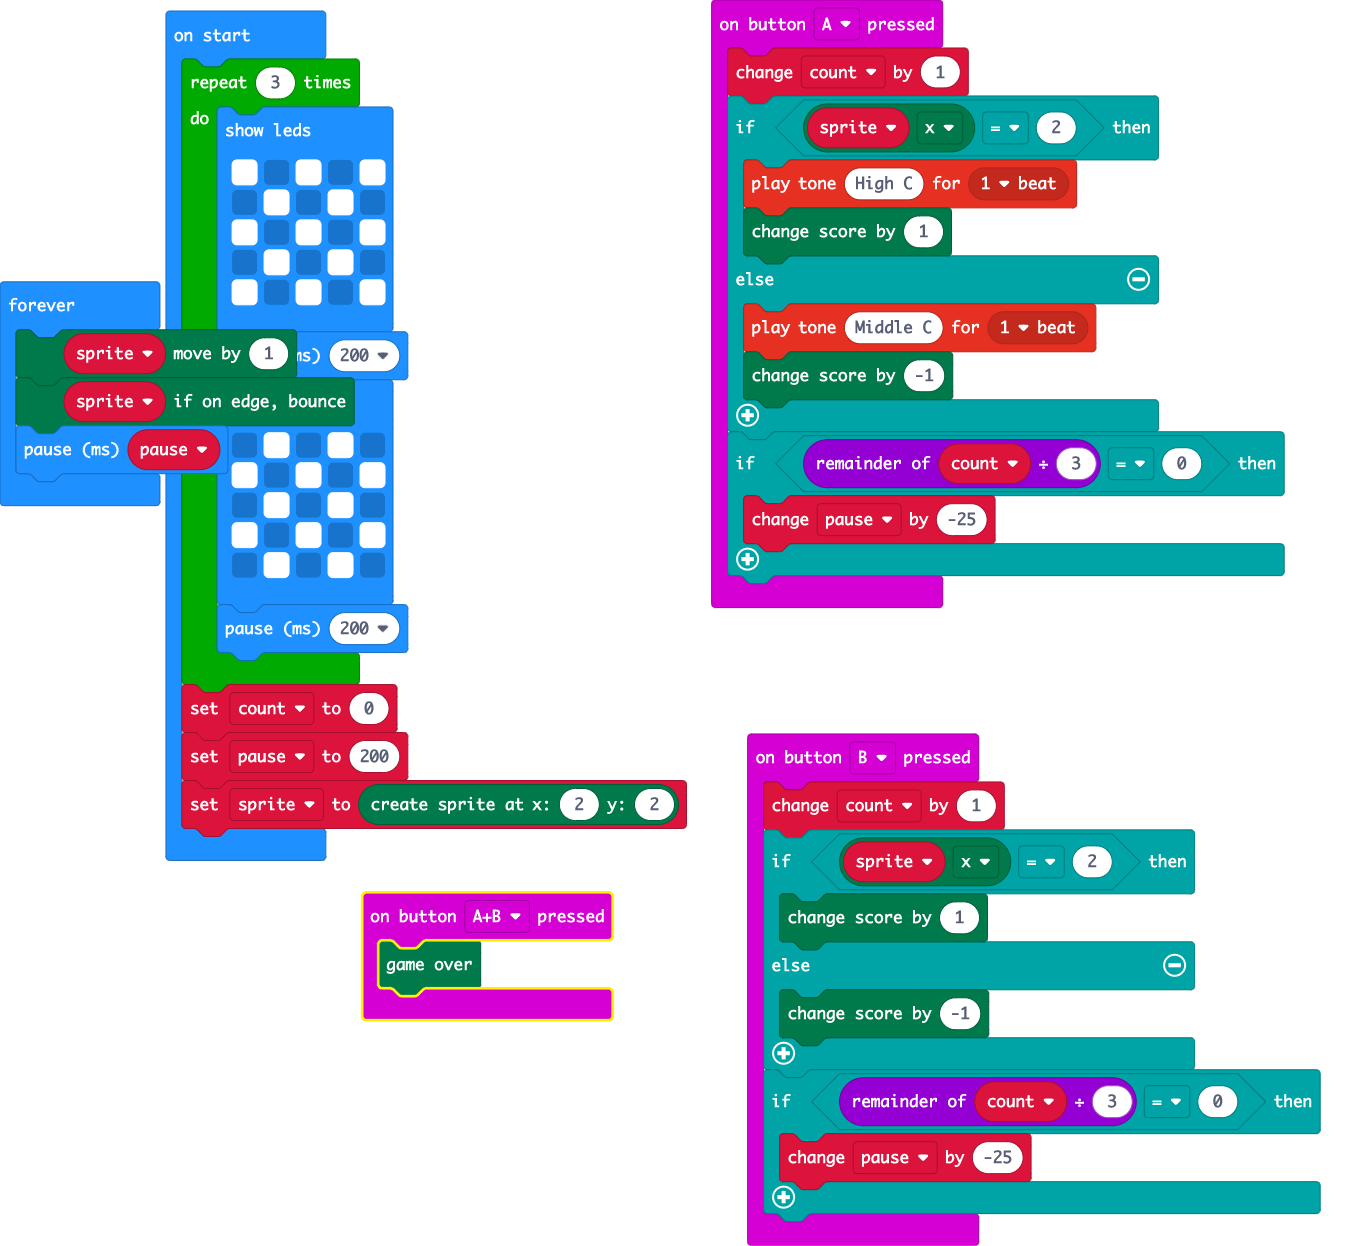
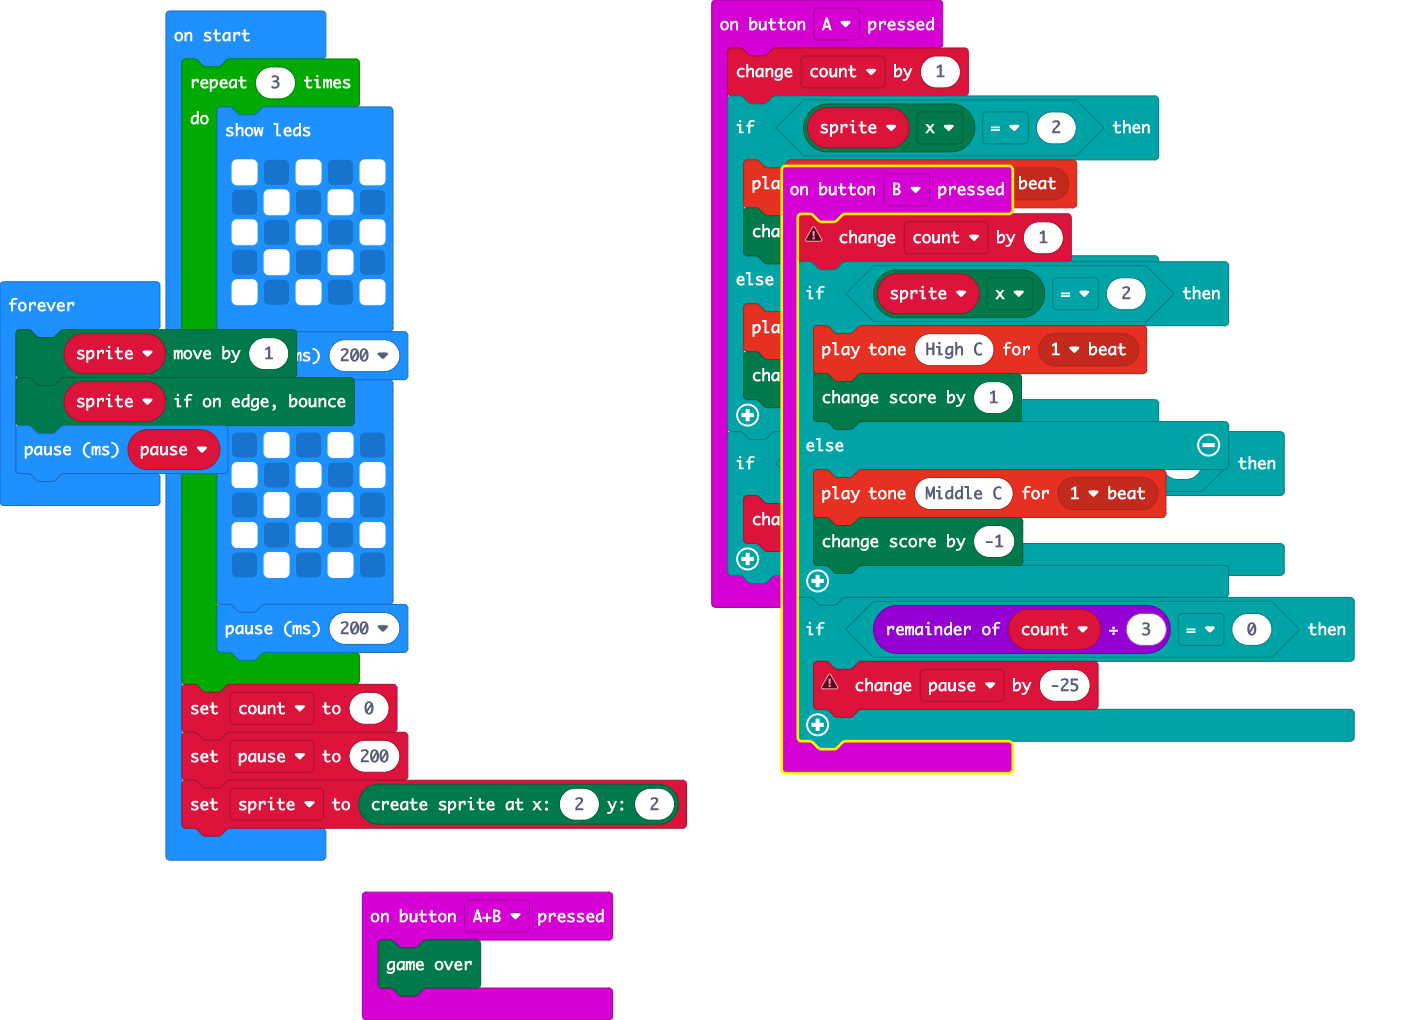
Update main.blocks, main.ts

diff --git a/main.ts b/main.ts
@@ -17,8 +17,10 @@ input.onButtonPressed(Button.AB, function () {
 input.onButtonPressed(Button.B, function () {
     count += 1
     if (sprite.get(LedSpriteProperty.X) == 2) {
+        music.playTone(523, music.beat(BeatFraction.Whole))
         game.addScore(1)
     } else {
+        music.playTone(262, music.beat(BeatFraction.Whole))
         game.addScore(-1)
     }
     if (count % 3 == 0) {
